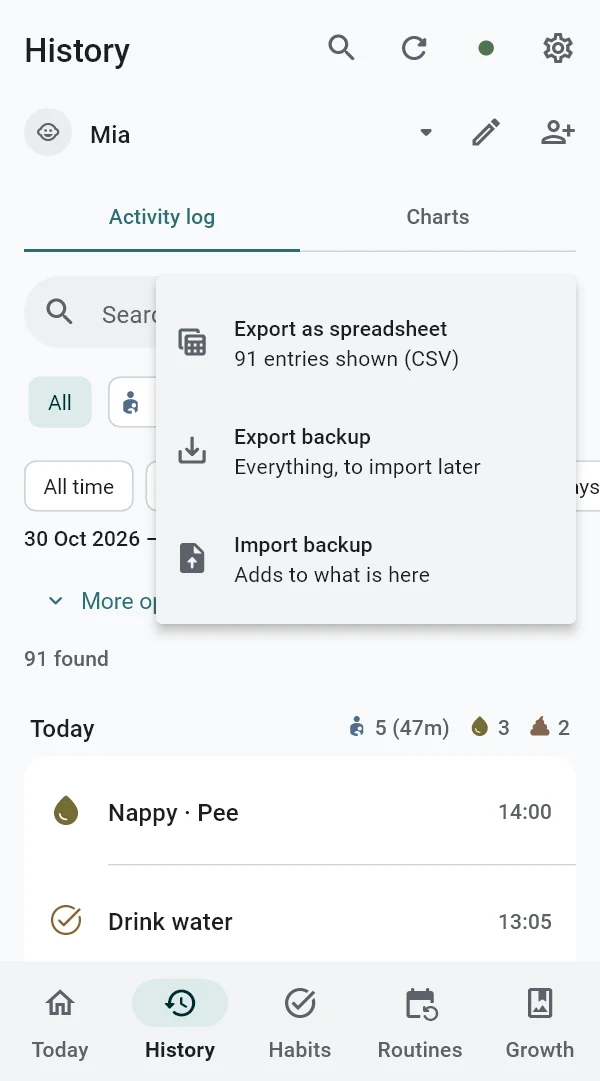
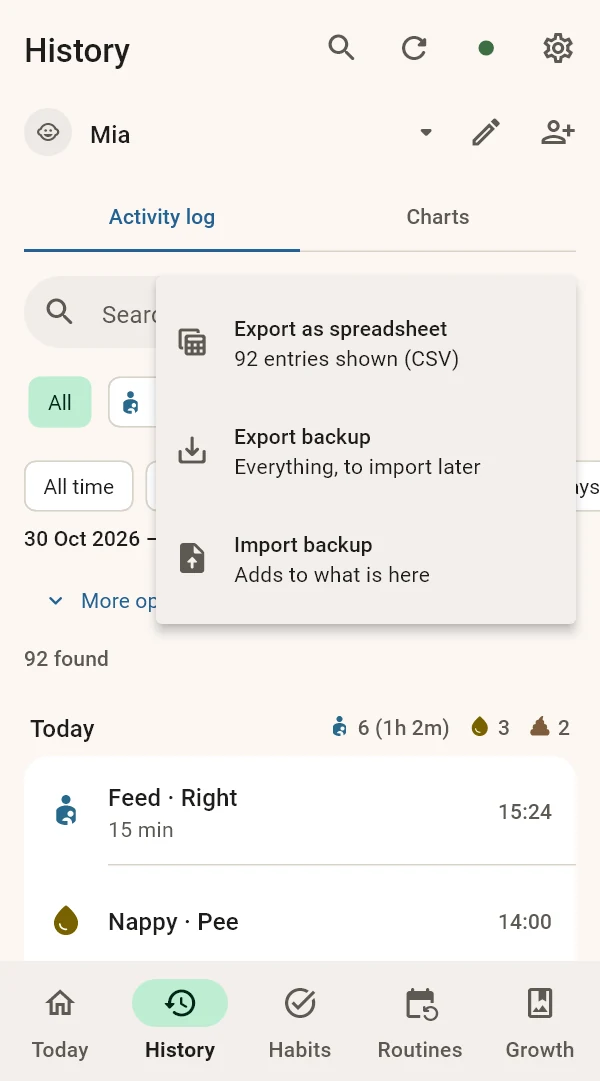
Ship the Sky palette and refresh the screenshots
The owner chose Sky from the palette candidates: a soft sky-blue accent
with mint selection and Today summary, warm off-white surfaces and gently
tinted quick-log tiles. The website uses the same colours, and the website
and camera-guide screenshots are re-rendered in it.

Claude-Session: https://claude.ai/code/session_01Fri9BvRCNPiVAuSd4d7pUS

diff --git a/website/style.css b/website/style.css
@@ -2,15 +2,15 @@
 
 :root {
   color-scheme: light dark;
-  --bg: #F8F9FA;
+  --bg: #FCF7F3;
   --surface: #FFFFFF;
-  --sunken: #EEF0F2;
+  --sunken: #F1ECE8;
   --text: #1A1D21;
   --muted: #5F6670;
   --line: #D0D5DA;
   --line-soft: #E3E6E9;
-  --accent: #2F6F73;
-  --accent-soft: #E1EEEE;
+  --accent: #256293;
+  --accent-soft: #E4F1E7;
   --on-accent: #FFFFFF;
   --radius: 10px;
   --font: system-ui, -apple-system, "Segoe UI", Roboto, "Helvetica Neue", Arial, sans-serif;
@@ -19,16 +19,16 @@
 
 @media (prefers-color-scheme: dark) {
   :root {
-    --bg: #0F1113;
-    --surface: #16191C;
+    --bg: #141618;
+    --surface: #1B1D20;
     --sunken: #1C2024;
     --text: #E8EAED;
     --muted: #9EA5AD;
     --line: #30363C;
     --line-soft: #23282D;
-    --accent: #8CC5C7;
-    --accent-soft: #1A2B2C;
-    --on-accent: #0F1113;
+    --accent: #99CBFF;
+    --accent-soft: #1F2220;
+    --on-accent: #003256;
   }
 }
 

diff --git a/website/layout.html b/website/layout.html
@@ -6,8 +6,8 @@
 <title>{{title}}</title>
 <meta name="description" content="{{description}}">
 <meta name="color-scheme" content="light dark">
-<meta name="theme-color" content="#F8F9FA" media="(prefers-color-scheme: light)">
-<meta name="theme-color" content="#0F1113" media="(prefers-color-scheme: dark)">
+<meta name="theme-color" content="#FCF7F3" media="(prefers-color-scheme: light)">
+<meta name="theme-color" content="#141618" media="(prefers-color-scheme: dark)">
 <link rel="icon" href="{{root}}favicon.png" type="image/png">
 <link rel="apple-touch-icon" href="{{root}}apple-touch-icon.png">
 <link rel="stylesheet" href="{{root}}style.css">

diff --git a/lib/src/ui/theme.dart b/lib/src/ui/theme.dart
@@ -259,7 +259,7 @@ class NestPalette extends ThemeExtension<NestPalette> {
   final bool sunnyButtons;
 
   /// The palette that ships. Change this to adopt a candidate.
-  static const shipped = NestVariant.current;
+  static const shipped = NestVariant.sky;
 
   /// Preview-only override of [shipped].
   @visibleForTesting

diff --git a/docs/design-system.md b/docs/design-system.md
@@ -10,12 +10,14 @@ shadow of its own.
 
 1. **Data first, decoration last.** Show the number ("Last feed 27m ago ·
    Left") as text. Don't wrap it in a decorated card, gradient or badge.
-2. **Neutral first.** Screens read as grey and white. Hierarchy comes from
-   type, spacing and tonal surfaces, not from colour.
-3. **One accent.** The slate-teal accent appears only on primary actions and
-   selected states. Red is reserved for errors.
-4. **Kinds are accents, not areas.** Feed, sleep, nappy and habit colours tint
-   an icon, a chart series or a thin indicator, and nothing larger.
+2. **Light and calm.** Screens read as warm off-white with a little colour.
+   Hierarchy comes from type, spacing and tonal surfaces first.
+3. **Sky and mint.** The shipped palette is Sky: a soft sky-blue accent for
+   primary actions, mint for selection and the Today summary. Red is reserved
+   for errors; no pink.
+4. **Kinds are small, gentle colour.** Feed, sleep, nappy and habit colours
+   tint icons, chart series and, at very low chroma, the quick-log tiles.
+   They never fill a whole screen.
 5. **Plain Material.** Use Google's own patterns (Fit, Clock, Settings):
    ListTiles grouped in cards, section headers, dividers only where they
    help. Avoid the "generated" look: no icon-in-a-tinted-circle on every
@@ -34,6 +36,10 @@ to explicit values; containers and kind colours come from HCT tonal palettes
 (`material_color_utilities`), so contrast is set by tone, not by eye.
 
 ### Roles
+
+> These tables list the Slate palette that shipped first. Sky now ships; its
+> key values are under [Palette candidates](#palette-candidates), and every
+> role is derived at the same tones, so the contrast figures hold for Sky too.
 
 | Role | Light | Night light | Dark | Use |
 |---|---|---|---|---|
@@ -216,8 +222,8 @@ component themes rather than per screen:
 
 ## Palette candidates
 
-`NestPalette` can be built in several variants (`NestVariant`): the shipped
-`current` (Slate) and three candidates under review, each described by a
+`NestPalette` can be built in several variants (`NestVariant`). **Sky ships** (chosen by the owner on
+5 November 2026); `current` (Slate), Tide and Marigold remain as alternatives, each described by a
 `_Spec` (HCT hues and chromas, plus where it allows a little colour: tinted
 quick-log tiles, a tinted Today summary, or sunny filled buttons). Every
 candidate passes `test/design_tokens_test.dart`. `NestPalette.shipped`
